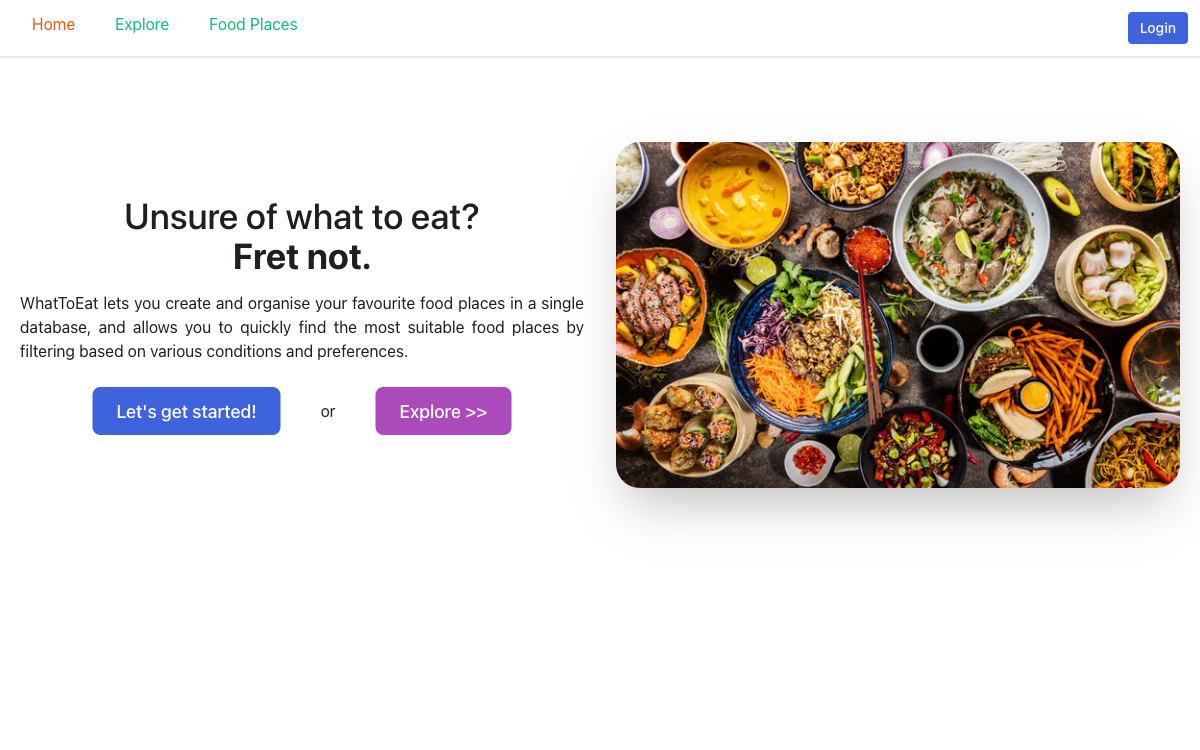
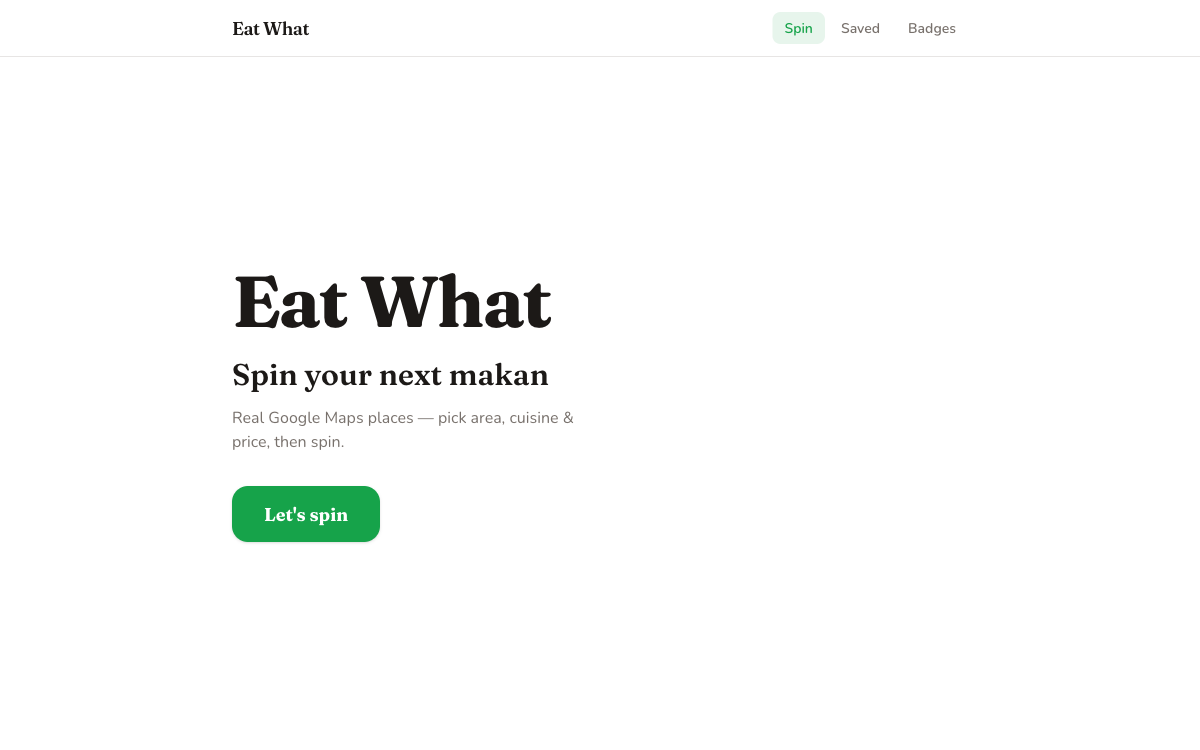
Fix Eat What demo URL and screenshot.
Point to the correct deployment at eat-what-smoky.vercel.app and recapture the thumbnail.

diff --git a/data/projects.ts b/data/projects.ts
@@ -142,7 +142,7 @@ export const projects: Project[] = [
       "The group chat never picks a restaurant. Pick your area, filter by price and cuisine, spin the wheel, and let a pun settle dinner.",
     tags: ["Singapore", "Maps", "Fun"],
     spotlight: false,
-    demoUrl: "https://eat-what.vercel.app",
+    demoUrl: "https://eat-what-smoky.vercel.app",
     githubUrl: "https://github.com/nathoyina/eat-what",
     ctaText: "Try it →",
     imageUrl: "/projects/eat-what.png",
